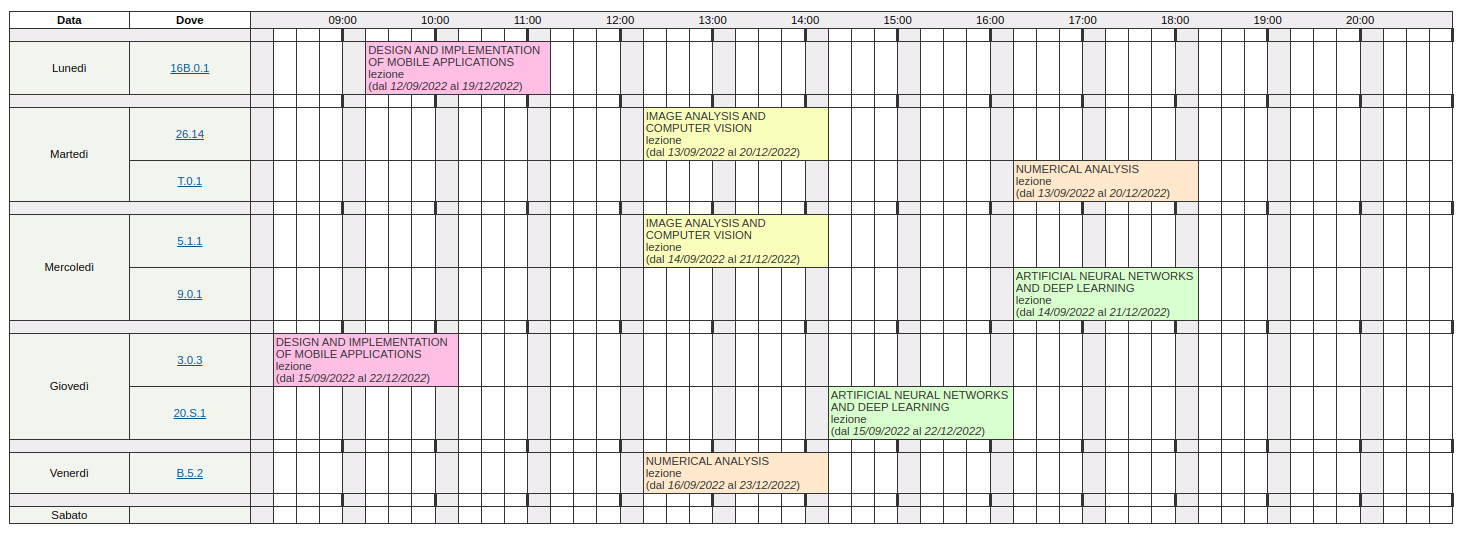
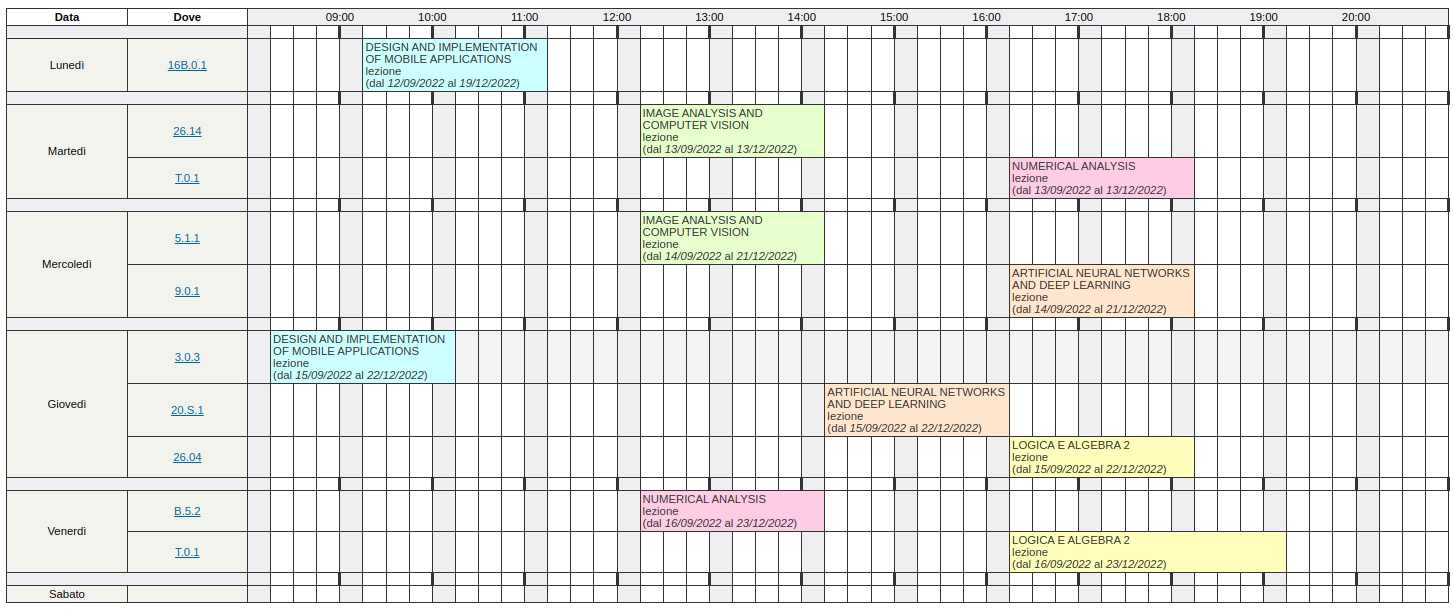
Logica e algebra 2

diff --git a/2_1/script.js b/2_1/script.js
@@ -64,18 +64,31 @@
                 "src": ""
             },
             {
-                "label": "REGISTRAZIONI PASSATE",
-                "src": "an2dl.html"
-            },
-            {
                 "label": "SITO",
                 "src": "http://chrome.deib.polimi.it/index.php?title=Artificial_Neural_Networks_and_Deep_Learning"
             },
             {
-                "label": "CALENDARIO",
+                "label": "CALENDARIO E REGISTRAZIONI",
                 "src": "https://boracchi.faculty.polimi.it/teaching/AN2DLCalendar_CS.htm"
+            },
+            {
+                "label": "REGISTRAZIONI PASSATE",
+                "src": "an2dl.html"
             }
-
+        ],
+        "notes": []
+    },
+    {
+        "name": "LOGICA E ALGEBRA 2",
+        "list": [
+            {
+                "label": "WEBEX (SENTINELLI PAOLO)",
+                "src": ""
+            },
+            {
+                "label": "WEBEEP",
+                "src": "https://webeep.polimi.it/course/view.php?id=8556"
+            }
         ],
         "notes": []
     }

diff --git a/2_1/index.html b/2_1/index.html
@@ -11,8 +11,8 @@
 		<br/>
 		<div id="list"></div>
 		<div class="image-container">
-			<div class="point" style="left: 16.5%; top: 22.5%"></div>
-			<div class="point" style="left: 16.5%; top: 52.5%"></div>
+			<div class="point" style="left: 16.5%; top: 18.5%"></div>
+			<div class="point" style="left: 16.5%; top: 44.5%"></div>
 			<img src="orario.png" alt="centered image" >
 		</div>
 	</body>
